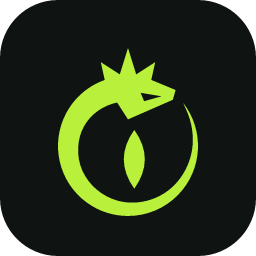
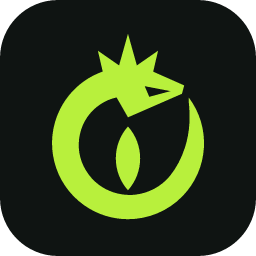
feat(brand): centre and even out the basilisk mark
Make the ring near-even instead of tapering all the way round, put the
crown tip, jaw point and pupil on one vertical axis, draw the pupil as
two arcs, and enlarge and centre the mark on the icon tile. Re-render
the PNGs and previews.

diff --git a/assets/brand/README.md b/assets/brand/README.md
@@ -11,10 +11,12 @@ that is itself a stare. Read small it is an eye with a crown; read large it
 is a serpent chasing its tail. The ring and the stroke inside it are also a
 0 and a 1.
 
-The body is a perfect circle on the outside and tapers on the inside, from
-the neck round to a needle tail, so the mark looks like it is turning. The
-head, crown, pupil and tail all end in sharp points; everything else is one
-circle.
+The body is a perfect circle on the outside and a near-even ring for three
+quarters of the way round, then thins into a blade for the tail. The tip of
+the crown, the point of the jaw and the pupil sit on one vertical axis
+through the centre of the ring, so the mark is symmetrical apart from the
+head and the tail. Head, crown, pupil and tail all end in sharp points;
+everything else is one circle. In the icon the ring is centred on the tile.
 
 It sits in the same family as Ghidra's dragon (a mythical beast as a flat
 emblem, coiled) but shares no shapes, colour or lettering with it: this is
@@ -75,8 +77,9 @@ dots on the two i's repeat the slit pupil.
 
 The SVGs are plain paths in a 256-unit box. The ring is a circle of radius
 100 centred on (128, 148); its outer edge is one arc command and its inner
-edge is eight cubic segments. Head, crown and pupil are straight-edged
-polygons and two quadratic curves, safe to nudge by hand.
+edge is nine cubic segments. Head and crown are straight-edged polygons and
+the pupil is two circular arcs centred on x = 128, all safe to nudge by
+hand.
 
 Regenerate the PNGs with [resvg](https://github.com/linebender/resvg):
 
